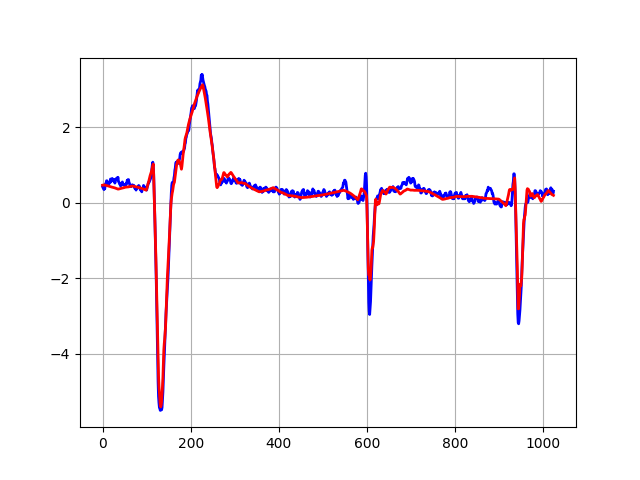
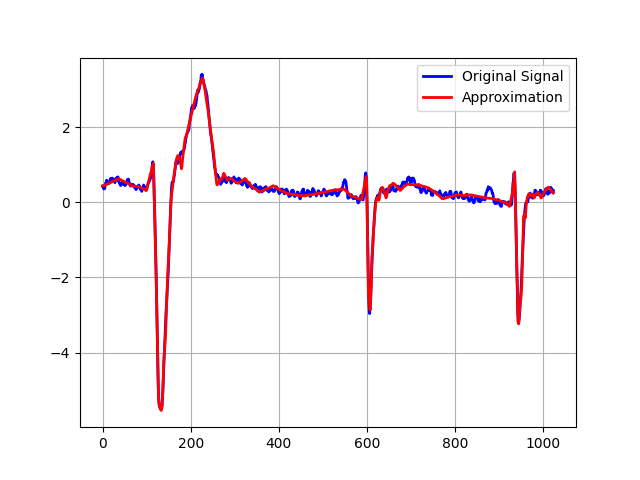
Adaptive Wavelets

diff --git a/code/Adaptive_Wavelets/decompress_awt.py b/code/Adaptive_Wavelets/decompress_awt.py
@@ -47,37 +47,33 @@ def decompress_awt(fname, acc):
         N = np.frombuffer(fid.read(4), dtype=np.int32)[0]  # 'integer*4' in MATLAB
         blocksize = np.frombuffer(fid.read(4), dtype=np.int32)[0]  # 'integer*4' in MATLAB
         cthslen = np.frombuffer(fid.read(4), dtype=np.uint32)[0]  # 'ubit'
-        #print(N, blocksize, cthslen)
 
         # Reading the optimal wavelet parameters from the header.
         tq = np.pi / (2 ** (acc[0] - 1) - 1)
         thetas = np.frombuffer(fid.read(2 * N * 8), dtype=np.float64).reshape(N, 2) * tq
-        #print('out',thetas)
+        
         # Reading the level structure.
         depth = np.frombuffer(fid.read(1), dtype=np.uint8)[0]  # 'integer*1' in MATLAB
         L = np.frombuffer(fid.read(4 * (depth + 2)), dtype=np.int32)  # 'integer*4' in MATLAB
-        #print(depth, L)
+        
         # Reading the quantization step parameters.
         maxq = np.frombuffer(fid.read(8), dtype=np.float64)[0]  # 'double' in MATLAB
-        minq = np.frombuffer(fid.read(8), dtype=np.float64)[0]  # 'double' in MATLAB
-        #quantq = np.frombuffer(fid.read(N * (2 * acc[0] // 8)), dtype=np.uint8)  # 'ubit'
+        minq = np.frombuffer(fid.read(8), dtype=np.float64)[0]  # 'double' in MATLAB        
         quantq=np.frombuffer(fid.read(4), dtype=np.float32)
         q = dequantQ(quantq, maxq, minq, 2 * acc[0])
-        #print(maxq, minq, quantq, q)
+        
         # Reading the coefficients of each block.
         top = 0
         bs = acc[0]
-        Cths = np.zeros(N * cthslen, dtype=np.int32)
+        Cths = np.zeros(N * cthslen, dtype=np.float32)
         while fid.tell() < os.path.getsize(f"{fname}.dat"):
             flag = read_bit(fid)
             if flag == 1:
                 Cths[top] = read_bits(fid, bs)
-                #print(Cths[top])
                 top += 1
             else:
                 numzero = read_bits(fid, bs)
                 Cths[top:top + numzero] = 0
-                #print(numzero, Cths[top:top + numzero])
                 top += numzero
 
     # Restoring coefficients vector.
@@ -90,7 +86,7 @@ def decompress_awt(fname, acc):
         Lo_D, Hi_D, Lo_R, Hi_R = genfilt6(thetas[i, 0], thetas[i, 1])
         C[i, :] = Cths[i, :] * q[i]
         ecg[i * blocksize:(i + 1) * blocksize] = waverec(C[i, :], L, Lo_R, Hi_R)
-
+        
     return ecg, C, L, thetas
 
 

diff --git a/code/Adaptive_Wavelets/example.py b/code/Adaptive_Wavelets/example.py
@@ -19,17 +19,15 @@ outfile = 'results/compressed_signal_awt'
 acc = np.array([8])  # Use 8 bits for quantizing the compressed data
 PRD_limit = 10  # PRD limit for approximation
 blocksize = 1024  # Segment size
-#blocksize = 475  # Segment size
 depth = 7  # Depth of wavelet tree
 show = False  # Control for displaying optimization steps
 
 # Adaptive representation of a heartbeat in an ECG record
-k = 0  # Example heartbeat index, adjust as needed
+k = 0  # Example heartbeat index
 signal = ecg[(k)*blocksize:(k+1)*blocksize]
-#signal = beats[0][0]
 M = len(signal)
-signal = np.reshape(signal, (M,))  # Signal should be a column vector
-#print(signal[0])
+signal = np.reshape(signal, (M,))
+
 # Adaptive Wavelet Transform (AWT)
 prd, bits, ecgsig = compress_awt(signal, outfile, acc, blocksize, depth, PRD_limit, show)
 aprx, C, L, thetas = decompress_awt(outfile, acc)
@@ -47,6 +45,7 @@ plt.gca().set_aspect("auto", adjustable="box")
 plt.plot(x, signal.flatten(), 'b', label='Original Signal', linewidth=2)
 plt.plot(x, aprx, 'r', label='Approximation', linewidth=2)
 plt.grid(True)
+plt.legend()
 
 # Save the resulting plot to a PNG file
 

diff --git a/code/Adaptive_Wavelets/matlab_wavelet_functions.py b/code/Adaptive_Wavelets/matlab_wavelet_functions.py
@@ -3,7 +3,7 @@ import pywt
 
 # NOTE
 # The functions below have been translated from MATLAB's own factory functions,
-# and have not been under rigorous testing!
+# and have not been under rigorous testing to ensure they work outside the demands of this project!
 
 def wavedec(x, n, IN3, IN4=None):
     """
@@ -493,12 +493,12 @@ def dyadup(x, evenodd=1, dim='c', evenLEN=False):
     Y = DYADUP(X,EVENODD) is equivalent to
     Y = DYADUP(X,EVENODD,'c') 
 
-            |1 2|                              |0 1 0 2 0|
+             |1 2|                              |0 1 0 2 0|
     When X = |3 4|  we obtain:  DYADUP(X,'c') = |0 3 0 4 0|
 
-                        |1 2|                      |1 0 2|
+                      |1 2|                      |1 0 2|
     DYADUP(X,'r',0) = |0 0|  , DYADUP(X,'m',0) = |0 0 0|
-                        |3 4|                      |3 0 4|
+                      |3 4|                      |3 0 4|
 
     See also DYADDOWN.
     

diff --git a/code/Adaptive_Wavelets/genfilt6.py b/code/Adaptive_Wavelets/genfilt6.py
@@ -1,9 +1,11 @@
 import numpy as np
 
 def genfilt6(theta1, theta2):
-    # length 6 orthogonal scaling filter as a function of 2 angles.
-    # Peter Kovacs, 2017
-    # translated to python in 2024
+    """
+    length 6 orthogonal scaling filter as a function of 2 angles.
+    Peter Kovacs, 2017
+    translated to python in 2024
+    """
 
     # One can get back db3 filter coefficients by using:
     # theta1=1.35980373244182; theta2=-0.78210638474440
